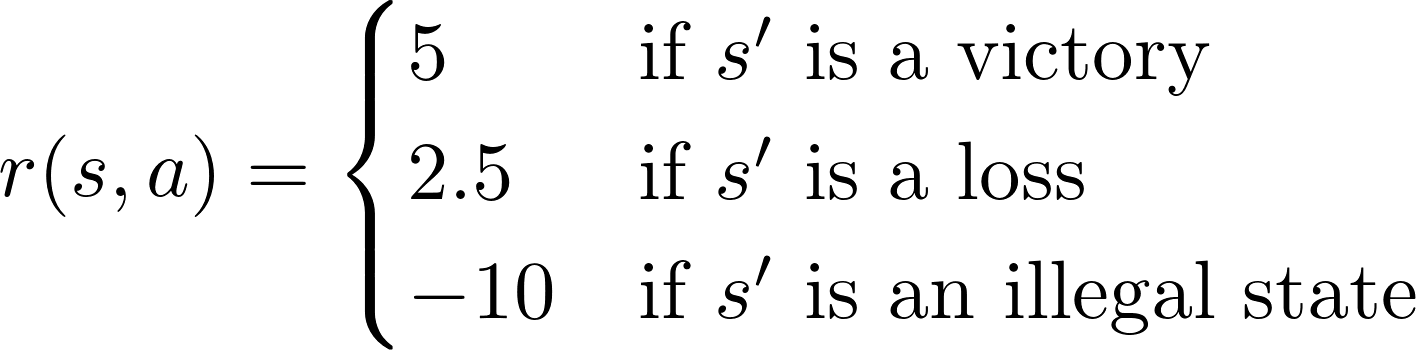
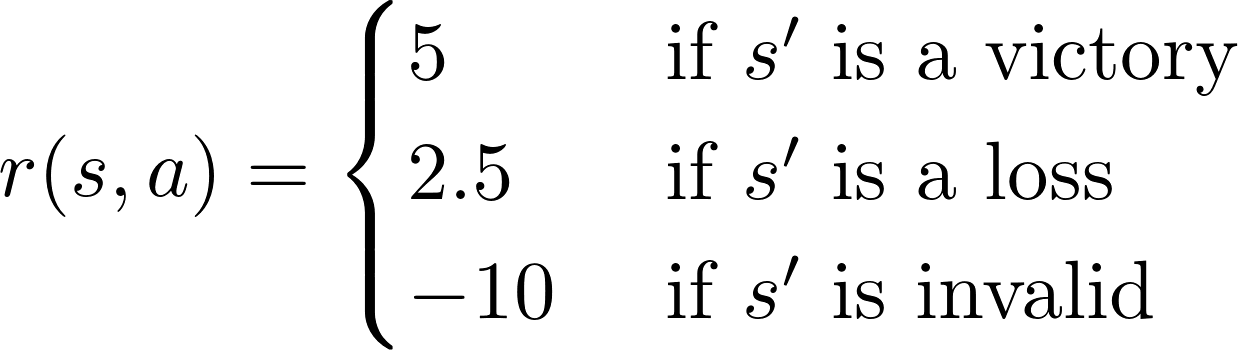
readme revisions

diff --git a/README.md b/README.md
@@ -4,7 +4,7 @@ Created by Devin Light
 A [web version of Swain Bot](https://swainbot.herokuapp.com) (hosted on Heroku) is available to play with. (Note: this model has a limited number of concurrent users and is much slower than the local version because it is hosted using the free tier offered by Heroku)
 ## Introduction
 ### What is League of Legends?
-League of Legends (abbreviated as LoL, or League) is a multiplayer online battle arena (MOBA) game developed by Riot Games which features two teams of five players each competing in head-to-head matches with the ultimate goal of destroying the opposing team's nexus structure. The game boasts millions of monthly players and a large competitive scene involving dozens of teams participating in both national and international tournaments. The game takes place across two broadly defined phases. In the first phase (or Drafting phase), each side takes turns assembling their team by selecting a unique character (called a champion) from a pool of almost 140 (as of this writing) without replacement. Then, in the second phase (or Play phase), each player in the match takes control of one of the champions chosen by their team and attempts to claim victory. Although not strictly required by the game, over the years players usually elect to play their champion in one of five roles named after the location on the map in which they typically start the game, and often corresponding to the amount of resources that player will have devoted to them:
+League of Legends (abbreviated as LoL, or League) is a multiplayer online battle arena (MOBA) game developed by Riot Games which features two teams of five players each competing in head-to-head matches with the ultimate goal of destroying the opposing team's nexus structure. The game boasts millions of monthly players and a large competitive scene involving dozens of teams participating in both national and international tournaments. The game takes place across two broadly defined phases. In the first phase (or Drafting phase), each side takes turns assembling their team by selecting a unique character (called a champion) from a pool of almost 140 (as of this writing) without replacement. Then, in the second phase (or Game phase), each player in the match takes control of one of the champions chosen by their team and attempts to claim victory. Although not strictly required by the game, over the years players have grown to play their champion in one of five roles named after the location on the map in which they typically start the game, and often corresponding to the amount of in-game resources that player will have devoted to them. The five roles are:
 
 - Position 1 (primary farm)-> ADC/Marksman<sup>1</sup>
 - Position 2 (secondary farm)-> Middle
@@ -12,9 +12,9 @@ League of Legends (abbreviated as LoL, or League) is a multiplayer online battle
 - Position 4 (farming support)-> Jungle
 - Position 5 (primary support)-> Support<sup>1</sup>
 
-<sup>1</sup> Typically the ADC and Support begin the game together same lane and are collectively called 'Bottom'.
+<sup>1</sup> Traditionally the ADC and Support begin the game together same lane and are collectively called 'Bottom'.
 
-Each champion has distinct set of characteristics and abilities that allows them excel in certain situations while struggling in others. In order to maximize the odds of victory, it is important that the team assembled during the drafting phase simultaneously plays into one cohesive set of strengths and disrupts or plays well against the strengths of the opposing draft. There are two types of submissions made during the drafting phase. In the banning portions of the drafting phase champions are removed from the pool of allowed submissions, whereas champions are added to the roster of the submitting team during the pick phases. The draft phase alternates between banning and picking until both teams have a full roster of five champions, at which point the game is played. The structure of the drafting phase is displayed in Figure 1. Note the asymmetry between teams (for example Blue bans first in ban phase one, while Red bans first in ban phase two) and between the phases themselves (ban phases always alternate sides, while pick phases "snake" between teams).
+Each champion has distinct set of characteristics and abilities that allows them excel in certain situations while struggling in others. In order to maximize the odds of victory, it is important that the team assembled during the drafting phase simultaneously plays into one cohesive set of strengths and disrupts or plays well against the strengths of the opposing draft. There are two types of submissions made during the drafting phase. In the banning portions of the draft champions are removed from the pool of allowed submissions, whereas champions are added to the roster of the submitting team during the pick phases. The drafting alternates between banning and picking until both teams have a full roster of five champions, at which point the game is played. The structure of the drafting phase is displayed in Figure 1. Note the asymmetry between teams (for example Blue bans first in ban phase one, while Red bans first in ban phase two) and between the phases themselves (ban phases always alternate sides, while pick phases "snake" between teams).
 
 ![Figure 1](common/images/league_draft_structure.png "Figure 1")
 
@@ -22,7 +22,7 @@ Each champion has distinct set of characteristics and abilities that allows them
 Swain Bot (named after the champion Swain whose moniker is "The Master Tactician") is a machine learning application built in Python using Google's Tensorflow framework. Swain Bot is designed to analyze the drafting phase of competitive League of Legends matches. Given a state of the draft which includes full information of our team's submissions (champions and positions) and partial information of the opponent's submissions (champions only), Swain Bot attempts to suggest picks and bans that are well-suited for our draft.
 
 ### What do we hope to do with Swain Bot?
-Knowing the best pick for a given draft situation can dramatically improve a team's odds of success. Our objective with Swain Bot is to help provide insight into League's crucial draft phase by attempting to answer questions like:
+Knowing the best pick for a given draft situation can dramatically improve a team's chance for success. Our objective with Swain Bot is to help provide insight into League's crucial draft phase by attempting to answer questions like:
 - Can we estimate how valuable each submission is for a given state of the draft? 
 - Is there a common structure or theme to how professional League teams draft? 
 - Can we identify the differences between a winning and a losing draft?
@@ -30,13 +30,13 @@ Knowing the best pick for a given draft situation can dramatically improve a tea
 ## Assumptions and Limitations
 Every model tasked with approaching a difficult problem is predicated on some number assumptions which in turn define the boundaries that the model can safely be applied. Swain Bot is no exception, so here we outline and discuss some of the explicit assumptions being made going into the construction of the underlying model Swain Bot uses to make its predictions. Some of the assumptions are more impactful than others and some could be removed in the future to improve Swain Bot's performance, but are in place for now for various reasons.
 
-1. Swain Bot is limited to data from recorded professionally played games from the "Big 5" regions (NALCS, EULCS, LCK, LPL, and LMS). Limiting potential data sources to competitive leagues is very restrictive when compared to the pool of amature matches played on local servers across the world. However, this assumption is in place as a result of changes in Riot's (otherwise exceptional) API which effectively randomizes the order in which the champion submissions for a draft are presented, rendering it impossible to recover the sequence of draft states that make up the complete information regarding the draft. Should the API be changed in the future Swain Bot will be capable of learning from amature matches as well. 
+1. Swain Bot is limited to data from recorded professionally played games from the "Big 5" regions (NALCS, EULCS, LCK, LPL, and LMS). Limiting potential data sources to competitive leagues is very restrictive when compared to the pool of amateur matches played on servers across the world. However, this assumption is in place as a result of changes in Riot's (otherwise exceptional) API which effectively randomizes the order in which the champion submissions for a draft are presented, rendering it impossible to recover the sequence of draft states that make up the complete information regarding the draft. Should the API be changed in the future Swain Bot will be capable of learning from amateur matches as well. 
 
 2. Swain Bot does not receive information about either the patch the game was played on or the teams involved in the match. Not including the patch allows us to stretch the data as much as we can given the restricted pool. Although the effectiveness of a champion might change as they are tuned between patches, it is unlikely that they are changed so much that the situations that the champion would normally be picked in are dramatically different. Nevertheless substantial champion changes have occured in the past, usually in the form of a total redesign. Additionally, although team data for competitive matches is available during the draft, Swain Bot's primary objective is to identify the most effective submissions for a given draft state rather than predict what a specific team might select in that situation.  It would be possible to combine Swain Bot's output with information about a team's drafting tendencies (using ensemble techniques like stacking) to produce a final prediction which both suits the draft and is likely to be chosen by the team. However we will leave this work for later.
 
 3. Swain Bot's objective is to associate the combination of a state and a potential submission with a value and to suggest taking the action which has the highest value. This valuation should be based primarily on what is likely to win the draft (or move us towards a winning state), and partly on what is likely to be done. Although these two goals may be correlated (a champion that is highly-valued might also be the one selected most frequently) they are not necessarily the same since, for example, teams may be biased towards or against specific strategies or champions.
 
-4. Swain Bot's objective to estimate the value of submissions for a given draft state is commonly approached using techniques from Reinforcement Learning (RL). RL methods have been successfully used in a variety of situations such as teaching robots how to move, playing ATARI games, and even [playing DOTA2](https://blog.openai.com/dota-2/). A common element to most RL applications is the ability to automatically explore and evaluate states as they are encountered in a simulated environment. However, Swain Bot is not capable of automatically playing out the drafts in order to evaluate them (yet..) and so is dependent on the data it observes originating from games that were previously played. This scenario is reminiscent of a Supervised Learning (SL) problem called behavioral cloning, where the task is to learn and replicate the policy outlined by an expert. However, behavioral cloning does not include the estimation of values associated with actions and attempts to directly mimic the expert policy. Swain Bot instead implements an RL algorithm to estimate action values (Q-Learning), but trained using expertly-generated data. In practice this means that the predictions made by Swain Bot can only have an expectation of accuracy when following trajectories that are similar to the paths prescribed by the training data (which we will see later).
+4. Swain Bot's objective to estimate the value of submissions for a given draft state is commonly approached using techniques from Reinforcement Learning (RL). RL methods have been successfully used in a variety of situations such as teaching robots how to move, playing ATARI games, and even [playing DOTA2](https://blog.openai.com/dota-2/). A common element to most RL applications is the ability to automatically explore and evaluate states as they are encountered in a simulated environment. However, Swain Bot is not capable of automatically playing out the drafts it recommends in order to evaluate them (yet..) and so is dependent on the data it observes originating from games that were previously played. This scenario is reminiscent of a Supervised Learning (SL) problem called behavioral cloning, where the task is to learn and replicate the policy outlined by an expert. However, behavioral cloning does not include the estimation of values associated with actions and attempts to directly mimic the expert policy. Swain Bot instead implements an RL algorithm to estimate action values (Q-Learning), but trained using expertly-generated data. In practice this means that the predictions made by Swain Bot can only have an expectation of accuracy when following trajectories that are similar to the paths prescribed by the training data.
 
 ## Methods
 This section is not designed to be too technical, but rather give some insight into how Swain Bot is implemented and some important modifications that helped with the learning process. For some excellent and thorough discussions on RL, check out the following:
@@ -49,26 +49,26 @@ This section is not designed to be too technical, but rather give some insight i
 ### Representing Draft States and Actions
 Each of the _N_ eligible champions (138 as of this writing) in a draft is represented by a unique `champion_id` integer and every position in the game (five positions per team plus banned champions) is given by a `position_id`. An _action_ (or _submission_) to the draft is defined as tuple of the form `(champion_id, position_id) = (i,j)` representing the selection of champion `i` to position `j` in the draft. We can represent the _draft state_ as a boolean matrix _S_ where _S_(i,j) = 1 if the ith champion is present in the draft at the jth position. The the number of columns in _S_ is determined by how much information about the positions is available to the drafter:
 - In a _completely informed_ draft all position information is known so _S_ is an `N x 11` matrix (10 positions + bans).
-- In a _partially informed_ draft position information is only known for the drafter's team whereas only the `champion_id`s are known for the opponent's team. As a result _S_ is given by an `N x 7` matrix (5 positions + bans + enemy champions).
+- In a _partially informed_ draft position information is only known for the drafter's team whereas only the `champion_id`s are known for the opponent's team. As a result _S_ is given by an `N x 7` matrix (5 positions + bans + enemy champion ids).
 
 Note that the _S_ is a sparse matrix since for any given state of a draft, there are no more than 10 picks and 10 bans that have been submitted so there are no more than 20 non-zero entries in _S_ at any given time. Swain Bot operates using partially informed draft states as inputs which may be obtained by projecting the five columns in the completely informed state corresponding to the positions in the opponent's draft onto a single column. Finally, we define the _actionable state_ to be the submatrix of _S_ corresponding to the actions the drafter may submit-- that is the columns corresponding to bans as well as the drafter's five submittable positions. 
 
 ### Drafting as a Markov Decision Process (MDP)
-An individual experience (sometimes called a memory) observed during the draft can be recorded as a tuple of the form `e_k = (s_k,a_k,r_k,s')` where `s_k` is the initial state of the draft before an action was taken, `a_k` is the action submitted, `r_k` is the reward observed as a result of `a_k`, and `s'` is the successor state transitioned to away from `s_k`. For either completely or partially informed states, the draft can be fully recovered using the sequence of experiences `(e_0, e_1,..., e_n)` transitioned through during the draft. This sequence defines a Markov chain because given the current state _s_, the value of the successor state _s'_ is independent of the states that were transitioned through before _s_. In other words, the possible states we are able to transition to away from _s_ depend only on _s_ itself, and not on the states that were seen on the way to _s_. 
+An individual experience (sometimes called a memory) observed during the draft can be recorded as a tuple of the form `e_k = (s_k,a_k,r_k,s')` where `s_k` is the initial state of the draft before an action was taken, `a_k` is the action submitted, `r_k` is the reward observed as a result of taking `a_k`, and `s'` is the successor state transitioned to away from `s_k`. For either completely or partially informed states, the draft can be fully recovered using the sequence of experiences `(e_0, e_1,..., e_n)` transitioned through during the draft. This sequence defines a Markov chain because given the current state _s_, the value of the successor state _s'_ is independent of the states that were transitioned through before _s_. In other words, the possible states we are able to transition to away from _s_ depend only on _s_ itself, and not on the states that were seen on the way to _s_. 
 
-To complete the description of drafting as a MDP we still need to define a reward schedule and discount factor. The discount factor is a scalar value between 0 and 1 that governs the present value of future expected rewards. Two common reasons to use a discount factor are to express uncertainty about the potential value of the future and to capture the extra value of taking an immediate reward over a delayed one (e.g. if the reward is financial, an immediate reward is worth more than a delayed reward because that immediate reward can then be used to earn additional interest). Typical discount factor values are in the range `0.9` to `0.99`. Swain Bot uses `discount_factor = 0.9`.
+To complete the description of drafting as an MDP we need to define a reward schedule and discount factor. The discount factor is a scalar value between 0 and 1 that governs the present value of future expected rewards. Two common reasons to use a discount factor are to express uncertainty about the potential value of the future and to capture the extra value of taking an immediate reward over a delayed one (e.g. if the reward is financial, an immediate reward is worth more than a delayed reward because that immediate reward can then be used to earn additional interest). Typical discount factor values are in the range `0.9` to `0.99`. Swain Bot uses `discount_factor = 0.9`.
 
-The reward schedule is a vital component of the MDP and determines what policy the model will ultimately converge towards. As previously discussed, Swain Bot's long-term objective is to select actions which move the draft towards a winning state while in the short term placing some value on actions which are likely to be taken. The ideal reward schedule should combine these two objectives so that Swain Bot predicts both good and probable actions. We will approach this by associating larger magnitude rewards with _terminal_ states and smaller magnitude rewards with non-terminal states. A terminal state _s_ occurs in one of three scenarios:
+The reward schedule is a vital component of the MDP and determines what policy the model will ultimately converge towards. As previously discussed, Swain Bot's long-term objective is to select actions which move the draft towards a winning state while in the short term placing some value on actions which are likely to be taken. The ideal reward schedule should combine these two goals so that Swain Bot predicts both good and probable actions. We will approach this by associating larger magnitude rewards with _terminal_ states and smaller magnitude rewards with non-terminal states. A terminal state _s_ occurs in one of three scenarios:
 1. _s_ represents a valid, complete draft which resulted in a win
 2. _s_ represents a valid, complete draft which resulted in a loss
 3. _s_ represents an invalid draft (which cannot be played)
 
 All other states are valid, but non-terminal. An invalid state _s_ is one in which one or more of the following conditions are satisfied:
-1. _s_ represents an incorrect number of picks or bans for the phase of the draft described by that state (e.g. any number of picks submitted during Ban Phase 1, four picks associated with blue side during Pick Phase 1, or two consecutive picks associated with red side during Pick Phase 2)
+1. _s_ represents an incorrect number of picks or bans for the phase of the draft described by that state (e.g. any number of picks submitted during Ban Phase 1, four picks submitted by blue side during Pick Phase 1, two consecutive picks associated with red side during Pick Phase 2, etc.)
 2. _s_ represents at least one champion selected in more than one position (e.g. picked and banned, picked by both teams, or picked by a team in more than one role)
-3. _s_ represents at least one non-ban position with more than one champion selected in that position. For partially complete drafts the opposing team position must have no more than five submissions represented.
+3. _s_ represents at least one non-ban actionable position with more than one champion submitted in that position. For partially complete drafts the opposing team position must also have no more than five submissions represented at any given time.
 
-The reward schedule is defined in two parts depending on if _s_ is a terminal state. If _s_ is terminal, the reward is given by
+The empirically determined reward schedule is defined in two parts depending on if _s_ is a terminal state. If _s_ is terminal, the reward is given by
 
 <img src="common/images/reward_sched_term.png" width="400">
 
@@ -76,24 +76,26 @@ If _s_ is non-terminal, the reward has the more simple form
 
 <img src="common/images/reward_sched_non-term.png" width="360">
 
-where _a_* is the action taken during the original memory. The actual values themselves were determined empirically. 
+where _a_* is the action taken during the original memory.
 
 ### Deep Q-Learning (DQN)
-With the framework describing drafting as an MDP, we can apply a Q-Learning algorithm to estimate `Q(s,a)`, the maximum expected future reward taking action `a` from state `s`. With 138 total champions and 20 chosen at a time to appear in the final draft state, there are roughly `6.07x10^{23}` possible ending states, making a tabular Q-learning method out of the question. Observing that the input state matrix `s` can be interpreted as a monochromatic image, we opt to use a simple convolutional neural network (CNN) to estimate the value function for an arbitrary state. For a great (and freely available) introduction to CNNs, see Stanford's [CS231n](http://cs231n.stanford.edu/). The selected model's architecture consists of 5 total layers:
+With the framework describing drafting as an MDP, we can apply a Q-Learning algorithm to estimate `Q(s,a)`, the maximum expected future return by taking action `a` from state `s`. With 138 total champions and 20 chosen at a time to appear in the final draft state, there are roughly `6.07x10^{23}` possible ending states, making a tabular Q-learning method out of the question. Observing that the input state matrix `s` can be interpreted as a monochromatic image, we opt to use a simple convolutional neural network (CNN) to estimate the value function for an arbitrary state. For a great (and freely available) introduction to CNNs, see Stanford's [CS231n](http://cs231n.stanford.edu/). The selected model's architecture consists of 5 total layers:
 - 3 CONV (3x3 stride) + ReLU + 2x2 MaxPool layers
 - 1 FC + ReLU layer
 - 1 FC linearly activated output layer
 
-In order to help speed up the model learning the underlying draft structure, the first FC layer is given several supplementary boolean inputs corresponding to which positions have been filled in the draft as well as if the draft is currently in a banning phase. These inputs aren't strictly necessary since the value of these variables is directly inferrable from the state matrix, but doing so substantially reduces the amount of training time required before the model begins producing legal submissions for the input states. There are also three important modifications to the fundamental DQN algorithm that are important in order to ensure that the Q-learning process is stable:
+Regularization is present in the model via dropout in between the FC layers. In order to help reduce the amount of time the model spends learning the underlying draft structure, the first FC layer is given several supplementary boolean inputs corresponding to which positions have been filled in the draft as well as if the draft is currently in a banning phase. These inputs aren't strictly necessary since the value of these variables is directly inferrable from the state matrix, but doing so substantially reduces the amount of training time required before the model begins producing legal submissions for input states. There are also three important modifications to the fundamental DQN algorithm that are necessary in order to ensure that the Q-learning is stable:
 1. Data augmentation
 2. Experience Replay (ER)
 3. Double DQN (DDQN)
 
-Data augmentation refers to modifying existing training data in order to effectively increase the size of the training set and help reduce model overfitting and as a result produce a more general model. The techniques used to modify the data include adding random noise to training data or cropping, mirroring, and rotating images. For the purposes of data augmentation in Swain Bot, we identify two types of augmentable submissions: sequential picks and bans. Referring to the original image of the drafting structure, notice that several of the submissions made during the two pick phases are made sequentially: red side's first two picks, blue side's second and third picks, and blue side's fourth and fifth picks. Swain Bot makes predictions one action at a time, so the order in which these submissions are presented is preserved and the input state for the second submission will include the first submission as a result. However, since these submissions are made back-to-back, in practice sequential picks use the same initial state and the order in which they are presented is arbitrary. A simple augmentation which helps Swain Bot emulate this common initial state is to randomly exchange the order in which sequential picks in the draft are executed. For example, if a sample draft includes two memories corresponding to red side sequentially picking (Kalista, ADC) and then (Leona, Support), half of the time the order in which these picks are learned from would be reversed. The second augmented submissions are bans sharing a common phase. Technically the drafting structure alternates between teams during bans, meaning that the initial state for each ban is distinct and as a result the order in which they are submitted is important. On the other hand, the purpose behind banning is to either protect your draft (by removing strong submissions against your team) or attack the enemy draft (by removing strong submissions to their team). In either circumstance, the bans we submit do not depend on the opponent's submissions _except in the case where they ban a champion which we would otherwise ban_. Unlike picks, however, our opponents "sniping" a ban actually _benefits_ our draft by effectively allowing our team to make an additional ban. This effect can be approximated by randomly shuffling the order in which the bans of a given phase are presented, just like we did with sequential picks. Note that bans cannot be shuffled across phases because bans made during the second phase are made with information about 3/5ths of the picks for each team available.
+Data augmentation refers to modifying existing training data in order to effectively increase the size of the training set and help reduce model overfitting. The techniques used to modify the data include adding random noise to training data or cropping, mirroring, and rotating images. For the purposes of data augmentation in Swain Bot, we identify two types of augmentable submissions: sequential picks and bans. Referring to the original image of the drafting structure, notice that several of the submissions made during the two pick phases are made sequentially: red side's first two picks, blue side's second and third picks, and blue side's fourth and fifth picks. Swain Bot makes predictions one action at a time, so the order in which these submissions are presented is preserved and the input state for the second submission will include the first submission as a result. However, since these submissions are made back-to-back, in practice sequential picks use the same initial state and the order in which they are presented is arbitrary. A simple augmentation which helps Swain Bot emulate this common initial state is to randomly exchange the order in which sequential picks in the draft are executed. For example, if a sample draft includes two memories corresponding to red side sequentially picking (Kalista, ADC) and then (Leona, Support), half of the time the order in which these picks are learned from would be reversed. 
 
-Experience replay provides a mechanism for separating the generation of memories from learning from those memories. In experience replay, each experience associated with a draft is stored into a pool of experiences spanning many drafts. The Q-learning update is applied to a minibatch of randomly sampled experiences contained within the pool. This is important because consecutive experiences generated from the same draft are strongly correlated and learning from them all simultaneously using SGD is not only inefficient, but may even lead to a local suboptimal minimum. By randomizing the samples drawn from the replay buffer, the correlation between experiences is broken. Additionally, each memory is potentially used in multiple updates, improving overall data efficiency. 
+The second augmented submissions are bans that share a common phase. Technically the drafting structure alternates between teams during bans, meaning that the initial state for each ban is distinct and as a result the order in which they are submitted is important. On the other hand, the purpose behind banning is to either protect your draft (by removing strong submissions against your team) or attack the enemy draft (by removing strong submissions to their team). In either circumstance, the bans we submit do not depend on the opponent's submissions _except in the case where they ban a champion which we would otherwise ban_. Unlike picks, however, our opponents "sniping" a ban actually _benefits_ our draft by effectively allowing our team to make an additional ban. This effect can be approximated by randomly shuffling the order in which the bans of a given phase are presented, just like we did with sequential picks. Note that bans cannot be shuffled across phases because bans made during the second phase are made with information about 3/5ths of the picks for each team available.
 
-The default DQN algorithm selects actions "greedily" by taking the maximum over the estimated action-values. A side effect of this maximization is that the DQN tends to learn overestimated values. Unfortunately this over optimism is often non-uniformly distributed across actions and can degrade the performance of the learned policy. Furthermore, this overestimation also tends to grow as the number of actions increases. As of this writing, there are 822 (137 champions each selectable in 6 positions) possible actions during each stage of drafting. As a result, it is desirable to control this overestimation as much as possible. The DDQN algorithm proposed by van Hesselt et. al. attempts to limit this overestimation by pseudo-decoupling action selection from evaluation utilizing two networks: an "online" network and a "target" network. The online network represents the most up-to-date parameters, while the target network is a periodic snapshot of the online network. In simplest terms the original update for DQN
+Experience replay provides a mechanism for separating the generation of memories from learning from those memories. In experience replay, each experience associated with a draft is stored into a pool of experiences spanning many drafts. The Q-learning update is applied to a minibatch of randomly sampled experiences contained within the pool. This is important because consecutive experiences generated from the same draft are strongly correlated and learning from them all simultaneously using SGD is not only inefficient, but may also lead to a local (suboptimal) minimum. By randomizing the samples drawn from the replay buffer, the correlation between experiences is at least broken. Additionally, each memory is potentially used in multiple updates, improving overall data efficiency. 
+
+The default DQN algorithm selects actions "greedily" by taking the maximum over the estimated action-values. A side effect of this maximization is that the DQN tends to learn overestimated values. Unfortunately this over optimism is often non-uniformly distributed across actions and can degrade the performance of the learned policy. Furthermore, this overestimation also tends to grow as the number of actions increases. There are 822 (137 champions each selectable in 6 positions) possible actions during each stage of drafting. As a result, it is desirable to control this overestimation as much as possible. The DDQN algorithm proposed by van Hesselt et. al. attempts to limit this overestimation by pseudo-decoupling action selection from evaluation by utilizing two networks: an "online" network and a "target" network. The online network represents the most up-to-date parameter estimates, while the target network is a periodic snapshot of the online network. In simplest terms the original update for DQN
 
 `update = reward + discount_factor*max_a'{Q(s',a')}`
 
@@ -101,31 +103,31 @@ is replaced with
 
 `update = reward + discount_factor*Q_target(s', max_a'{Q_online(s',a')})`.
 
-Note that this doesn't truly decouple action selection and evaluation because the target network is a copy of a previous online network.
+Note that this doesn't truly decouple action selection and evaluation because the target network is a copy of a previous online network. The goal of DDQN is to be the simplest modification of DQN in the direction of a truly decopuled algorithm (like double Q-learning) in order to get most of the benefit with the smallest computational overhead required.
 
 ## Analysis
 ### Evaluating the Model
 In addition to the "eyeball test" of Swain Bot's predictions (i.e. no illegal submissions, correct number of roles, overall "meta-feel" of drafts, etc.), we're also interested in a quantitative measure of performance. 
 
-One approach is to treat predictions as we would with a classifier and measure the fraction of predictions which agree with what was actually submitted in a winning draft. However, it's important to recall that our objective is to predict valuable submissions which may not necessarily overlap with what a specific team is likely to submit. It is often the case that multiple submissions are suited for the draft and as a result each have roughly equal value (this is particularly true for bans and early submissions). Selecting amongst these valid picks is mostly a function of the biases of the drafting team. Since team identities aren't included as part of the input, it is unrealistic to expect the model to match the exact submission made for every team. A simple way to try and compensate for this is to group the top `k` submissions and regard these as a set of "good" picks according to the model. Then we measure accuracy as the fraction of submissions made that are contained in the predicted "good" submission pools for each state. 
+One approach is to treat predictions as we would with a classifier and measure the fraction of predictions which agree with what was actually submitted in a winning draft. However, it's important to recall that our objective is to predict valuable submissions which may not necessarily overlap with what a specific team is likely to submit. It is often the case that multiple submissions are suited for the draft and as a result each have roughly equal value (this is particularly true for bans and early submissions). Selecting an action from amongst these valid picks is mostly a function of the biases of the drafting team. Since team identities aren't included as part of the input, it is unrealistic to expect the model to match the exact submission made by every team. A simple way to try and compensate for this is to group the top `k` submissions and regard these as a set of "good" picks according to the model. Then we measure accuracy as the fraction of submissions made that are contained in the predicted "good" submission pool for each state. 
 
-Another approach is to examine the difference in estimated Q-values between the top prediction (`max_a{Q(s,a)}`) and the actual submission (`Q(s,a*)`). The difference between these two values estimates how far off the actual action that was submitted is from taking over the top prediction. If `a*` is really a good submission for this state this difference should be relatively small. If we use this to compute a normalized mean squared error over a set of states we should get an estimate of the model performance:
+Another approach is to examine the difference in estimated Q-values between the top prediction (`max_a{Q(s,a)}`) and the actual submission (`Q(s,a*)`). The difference between these two values estimates how far off the actual action that was submitted is from taking over as the top prediction. If both the top recommendation and `a*` are really a good submissions for this state this difference should be relatively small. If we use this to compute a normalized mean squared error over a each state we are predicting for we should get an estimate of the model performance:
 
 <img src="common/images/nms_error.png" width="360">
 
 Note that if the model were to assign all actions the same value then this measure of error would be trivially zero. So just like the classification measure of accuracy, this measure of error is not perfect. Nevertheless the combination gives some insight into how the model performs.
 
 ### Training Data
-Match data was pulled from [lol.gamepedia.com](https://lol.gamepedia.com).
+Competitive match data was pulled from [lol.gamepedia.com](https://lol.gamepedia.com).
 
-The model was trained in two stages. For the first stage, data was obtained from matches from the 2017 Summer Season and 2017 Worlds Championship Qualifiers for five major international regions:
+The model was trained in two stages. For the first stage, data was obtained from matches played during the 2017 Summer Season and 2017 Worlds Championship Qualifiers for the five major international regions:
 - North America (NA LCS)
 - Europe (EU LCS)
 - China (LPL)
 - Korea (LCK)
 - Taiwan, Hong Kong, & Macau (LMS)
 
-Between the two training stages the model went through a dampening iteration (in which the value of all predictions were reduced) in order to simulate a change in metas associated with the gap in time between the Summer Season and Worlds Championships. The second stage of training used data from the 119 matches played during the 2017 World Championship with 3 randomly selected matches from the knockout stages held out for validation. The model learned on each match in the training set for 100 epochs (i.e. each match was seen 100 times in expectation).
+Between the two training stages the model underwent a dampening iteration (in which the value of all predictions were reduced) in order to simulate a change in metas associated with the gap in time between the Summer Season and Worlds Championships. The second stage of training used data from the 119 matches played during the 2017 World Championship with 3 randomly selected matches from the knockout stages held out for validation. The model learned on each match in the training set for 100 epochs (i.e. each match was seen 100 times in expectation).
 
 ### Validation Matches
 Of the three validation matches selected from the knockout stages of 2017 Worlds, two came from the group stage and one came from the finals matches.
@@ -133,7 +135,7 @@ Of the three validation matches selected from the knockout stages of 2017 Worlds
 - (Group stage) Team Solo Mid (TSM) vs Team World Elite (WE) Game 1
 - (Finals) Samsung Galaxy (SSG) vs SK Telecom T1 (SKT) Game 2
 
-The figure below illustrates the drafting phases of each match. The left side of the draft represents the submissions made by the blue side, while the right side depicts submissions made by the red side. 
+The figure below illustrates the drafts from each match. The left side of the draft represents the submissions made by the blue side, while the right side depicts submissions made by the red side. 
 
 <img src="common/images/validation_matches.png" width="700">
 
@@ -160,7 +162,7 @@ Norm Information:
   l2 error: 0.849
 ```
 
-Starting with the top 1 classification accuracy it's apparent that predicting the exact submission at every stage in the draft is difficult for the model, which achieves an abysmal 30-45% accuracy across the three categories. This is likely due to a combination of lacking information about which teams are drafting (which would allow the model to account for submissions that are either "comfort picks" or picks that a team is biased against) and the uneven weighting between winning submissions and likely submissions. For the top 5 classification accuracy the model improves significantly, particularly when the first three bans are ignored. Combined with a stable l2 error this indicates that the model does in fact associate elevated values for the actual submissions from winning drafts even if they are not the exact submission the model predicts. Finally, the jump in performance between the full set of predictions and the predictions excluding the first phase of banning generally holds true. In contrast, the difference in performance after further removing the second phase of bans is smaller. This suggests that earlier submissions in the draft are significantly more difficult to predict than later ones. This might be due to a combination of factors. First, since these submissions are the furthest away from the most rewarding states (which are seen at the end of the draft) the uncertainty in the possible directions a draft can go is near its maximum. Second, even after it's complete the first phase of bans contributes relatively little information to the draft when compared with the information gained after several picks have been made. Finally, the first ban submissions are also significantly influenced by team biases since they tend to revolve around the picks you and your opponent are likely to make.
+Starting with the top 1 classification accuracy it's apparent that predicting the exact submission at every stage in the draft is difficult for the model, which achieves an abysmal 30-45% accuracy across the three categories. This is likely due to a combination of lacking information about which teams are drafting (which would allow the model to account for submissions that are either "comfort picks" or picks that a team is biased against) and the uneven weighting between winning submissions and likely submissions. For the top 5 classification accuracy the model improves significantly, particularly when the first three bans are ignored. Combined with a stable l2 error this indicates that the model does in fact associate elevated values for the actual submissions from winning drafts even if they are not the exact submission the model predicts. Finally, the jump in performance between the full set of predictions and the predictions excluding the first phase of banning generally holds true. In contrast, the difference in performance after further removing the second phase of bans is smaller. This suggests that earlier submissions in the draft are significantly more difficult to predict than later ones. This might be due to a combination of factors. First, since these submissions are the furthest away from the most rewarding states (which are seen at the end of the draft) the uncertainty in the possible directions a draft can go is large. Second, even after it's complete the first phase of bans contributes relatively little information to the draft when compared with the information gained after several picks have been made. Finally, the first phase ban submissions are the ones perhaps most significantly influenced by team biases since they tend to revolve around the picks you and your opponent are likely to make.
 
 For completeness here is the table for all 2017 Worlds matches (including the play-in stages):
 ```
@@ -184,7 +186,7 @@ Norm Information:
   l2 error: 1.4
 ```
 
-Worlds 2017 was dominated by the "Ardent Censer" meta which favored hard-scaling position 1 carries combined with position 5 supports that could abuse the item Ardent Censer (an item which amplified the damage output of the position 1 pick). This made using early picks to secure a favorable bot lane matchup extremely popular. The remaining pick from the first phase tended to be spent selecting a safe jungler like Jarvan IV, Sejuani, or Gragas. As a result, if we look at the distribution of positions made during the first phase of each of the 119 drafts conducted at 2017 Worlds we can see a strong bias against the solo lanes (positions 2 and 3). 
+Worlds 2017 was dominated by the "Ardent Censer" meta which favored hard-scaling position 1 carries combined with position 5 supports who could abuse the item Ardent Censer (an item which amplified the damage output of the position 1 pick). This made using early picks to secure a favorable bot lane matchup extremely popular. The remaining pick from the first phase tended to be spent selecting a safe jungler like Jarvan IV, Sejuani, or Gragas. As a result, if we look at the distribution of positions made during the first phase of each of the 119 drafts conducted at 2017 Worlds we can see a strong bias against the solo lanes (positions 2 and 3). 
 
 ```
 Phase 1: Actual
@@ -193,7 +195,6 @@ Phase 1: Actual
   Position 3: Count  24, Ratio 0.0672
   Position 4: Count  92, Ratio 0.258
   Position 5: Count 102, Ratio 0.286
-
 ```
 
 We can compare this with the positions of the top 5 recommendations made by Swain Bot during the first pick phase:
